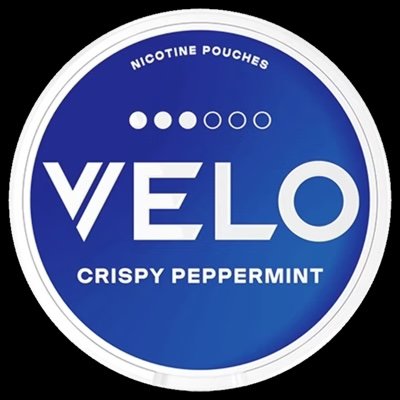
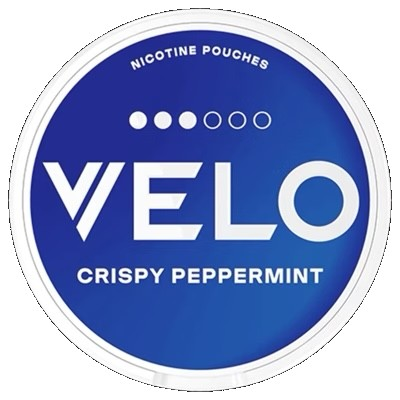
Vit bakgrund på AVIF-bilder, cache v5

Changed region(s): [[0.0, 0.0, 1.0, 1.0]]

diff --git a/api/vs.js b/api/vs.js
@@ -25,7 +25,7 @@ export async function GET(req) {
   const title = `${label(A)} vs ${label(B)} – ${site}`;
   const desc = en ? 'Which one wins? Cast your vote.' : 'Vilket snus vinner? Rösta nu.';
   const url = `${origin.replace('://www.', '://')}/vs/${encodeURIComponent(a)}/${encodeURIComponent(b)}`;
-  const img = `${origin}/api/og?a=${encodeURIComponent(a)}&b=${encodeURIComponent(b)}&v=4`;
+  const img = `${origin}/api/og?a=${encodeURIComponent(a)}&b=${encodeURIComponent(b)}&v=5`;
 
   const out = page
     .replace(/<title>[^<]*<\/title>/, () => `<title>${esc(title)}</title>`)
